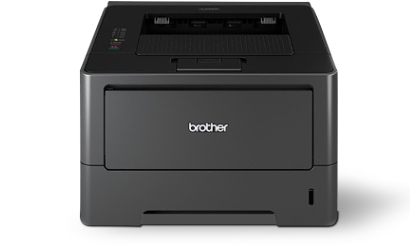
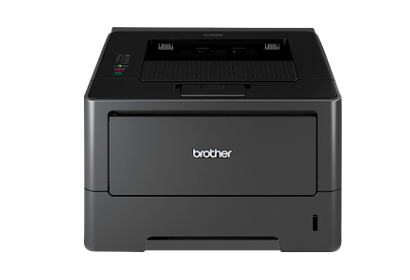
fc# catalog images

Changed region(s): [[0.1756, 0.0, 0.9659, 0.9597], [0.439, 0.4798, 0.5854, 0.5645], [0.7317, 0.7621, 0.7902, 0.8468]]

diff --git a/dist/index.html b/dist/index.html
@@ -211,7 +211,7 @@
                 <!-- line 4-->
                 <div class="programs-tab">
                   <div class="programs-tab__products">
-                    <div class="programs-tab__header">Линейка черно-белых лазерных устройств для малых рабочих групп</div>
+                    <div class="programs-tab__header">или</div>
                     <div class="programs-tab__products-grid">
                       <div class="programs-tab__product-item">
                         <div class="programs-tab__image"><img src="img/t1/b5.png" alt="">
@@ -237,7 +237,7 @@
                     </div>
                   </div>
                   <div class="programs-tab__complementary">
-                    <div class="programs-tab__header" data-quantitative-modification><span>Контракт 24 месяца</span></div>
+                    <div class="programs-tab__header" data-quantitative-modification><span>Контракт 36 месяца</span></div>
                     <div class="programs-tab__complementary-grid" data-symbol="+">
                       <div class="programs-tab__complementary-item">
                         <div class="programs-tab__image"><img src="img/t1/bk2.png" alt=""></div><span>9 картриджей</span>
@@ -302,12 +302,12 @@
                 <div class="catalog__column">
                   <div class="catalog__item">
                     <div class="catalog__item-label">
-                      <div class="catalog__item-image"><img src="img/c1.png" alt="title"></div>
-                      <h4 class="catalog__item-title">HL-L5200DW</h4>
+                      <div class="catalog__item-image"><img src="img/c3.png" alt="title"></div>
+                      <h4 class="catalog__item-title">HL-L6300DW</h4>
                     </div>
                     <div class="catalog__item-content js-catalog-item-content">
                       <article>
-                        <h4 class="catalog__item-title">HL-L5200DW</h4>
+                        <h4 class="catalog__item-title">HL-L6300DW</h4>
                         <dl>
                           <dt>Скорость печати, стр./мин.</dt>
                           <dd>46</dd>
@@ -343,12 +343,12 @@
                 <div class="catalog__column">
                   <div class="catalog__item">
                     <div class="catalog__item-label">
-                      <div class="catalog__item-image"><img src="img/c1.png" alt="title"></div>
-                      <h4 class="catalog__item-title">HL-L5200DW</h4>
+                      <div class="catalog__item-image"><img src="img/c3.png" alt="title"></div>
+                      <h4 class="catalog__item-title">HL-L6400DW</h4>
                     </div>
                     <div class="catalog__item-content js-catalog-item-content">
                       <article>
-                        <h4 class="catalog__item-title">HL-L5200DW</h4>
+                        <h4 class="catalog__item-title">HL-L6400DW</h4>
                         <dl>
                           <dt>Скорость печати, стр./мин.</dt>
                           <dd>46</dd>
@@ -384,12 +384,12 @@
                 <div class="catalog__column">
                   <div class="catalog__item">
                     <div class="catalog__item-label">
-                      <div class="catalog__item-image"><img src="img/c1.png" alt="title"></div>
-                      <h4 class="catalog__item-title">HL-L5200DW</h4>
+                      <div class="catalog__item-image"><img src="img/c4.png" alt="title"></div>
+                      <h4 class="catalog__item-title">MFC-L5750DW</h4>
                     </div>
                     <div class="catalog__item-content js-catalog-item-content">
                       <article>
-                        <h4 class="catalog__item-title">HL-L5200DW</h4>
+                        <h4 class="catalog__item-title">MFC-L5750DW</h4>
                         <dl>
                           <dt>Скорость печати, стр./мин.</dt>
                           <dd>46</dd>
@@ -425,12 +425,12 @@
                 <div class="catalog__column">
                   <div class="catalog__item">
                     <div class="catalog__item-label">
-                      <div class="catalog__item-image"><img src="img/c1.png" alt="title"></div>
-                      <h4 class="catalog__item-title">HL-L5200DW</h4>
+                      <div class="catalog__item-image"><img src="img/c5.png" alt="title"></div>
+                      <h4 class="catalog__item-title">MFC-L6800DW</h4>
                     </div>
                     <div class="catalog__item-content js-catalog-item-content">
                       <article>
-                        <h4 class="catalog__item-title">HL-L5200DW</h4>
+                        <h4 class="catalog__item-title">MFC-L6800DW</h4>
                         <dl>
                           <dt>Скорость печати, стр./мин.</dt>
                           <dd>46</dd>
@@ -466,12 +466,12 @@
                 <div class="catalog__column">
                   <div class="catalog__item">
                     <div class="catalog__item-label">
-                      <div class="catalog__item-image"><img src="img/c1.png" alt="title"></div>
-                      <h4 class="catalog__item-title">HL-L5200DW</h4>
+                      <div class="catalog__item-image"><img src="img/c6.png" alt="title"></div>
+                      <h4 class="catalog__item-title">MFC-L6900DW</h4>
                     </div>
                     <div class="catalog__item-content js-catalog-item-content">
                       <article>
-                        <h4 class="catalog__item-title">HL-L5200DW</h4>
+                        <h4 class="catalog__item-title">MFC-L6900DW</h4>
                         <dl>
                           <dt>Скорость печати, стр./мин.</dt>
                           <dd>46</dd>
@@ -513,12 +513,12 @@
                 <div class="catalog__column">
                   <div class="catalog__item">
                     <div class="catalog__item-label">
-                      <div class="catalog__item-image"><img src="img/c1.png" alt="title"></div>
-                      <h4 class="catalog__item-title">HL-L5200DW</h4>
+                      <div class="catalog__item-image"><img src="img/c7.png" alt="title"></div>
+                      <h4 class="catalog__item-title">HL-L2371DN</h4>
                     </div>
                     <div class="catalog__item-content js-catalog-item-content">
                       <article>
-                        <h4 class="catalog__item-title">HL-L5200DW</h4>
+                        <h4 class="catalog__item-title">HL-L2371DN</h4>
                         <dl>
                           <dt>Скорость печати, стр./мин.</dt>
                           <dd>46</dd>
@@ -554,12 +554,12 @@
                 <div class="catalog__column">
                   <div class="catalog__item">
                     <div class="catalog__item-label">
-                      <div class="catalog__item-image"><img src="img/c1.png" alt="title"></div>
-                      <h4 class="catalog__item-title">HL-L5200DW</h4>
+                      <div class="catalog__item-image"><img src="img/c8.png" alt="title"></div>
+                      <h4 class="catalog__item-title">DCP-L2551DN</h4>
                     </div>
                     <div class="catalog__item-content js-catalog-item-content">
                       <article>
-                        <h4 class="catalog__item-title">HL-L5200DW</h4>
+                        <h4 class="catalog__item-title">DCP-L2551DN</h4>
                         <dl>
                           <dt>Скорость печати, стр./мин.</dt>
                           <dd>46</dd>
@@ -595,12 +595,12 @@
                 <div class="catalog__column">
                   <div class="catalog__item">
                     <div class="catalog__item-label">
-                      <div class="catalog__item-image"><img src="img/c1.png" alt="title"></div>
-                      <h4 class="catalog__item-title">HL-L5200DW</h4>
+                      <div class="catalog__item-image"><img src="img/c8.png" alt="title"></div>
+                      <h4 class="catalog__item-title">MFC-L2751DW</h4>
                     </div>
                     <div class="catalog__item-content js-catalog-item-content">
                       <article>
-                        <h4 class="catalog__item-title">HL-L5200DW</h4>
+                        <h4 class="catalog__item-title">MFC-L2751DW</h4>
                         <dl>
                           <dt>Скорость печати, стр./мин.</dt>
                           <dd>46</dd>
@@ -642,12 +642,12 @@
                 <div class="catalog__column">
                   <div class="catalog__item">
                     <div class="catalog__item-label">
-                      <div class="catalog__item-image"><img src="img/c1.png" alt="title"></div>
-                      <h4 class="catalog__item-title">HL-L5200DW</h4>
+                      <div class="catalog__item-image"><img src="img/c10.png" alt="title"></div>
+                      <h4 class="catalog__item-title">HL-L9310CDW</h4>
                     </div>
                     <div class="catalog__item-content js-catalog-item-content">
                       <article>
-                        <h4 class="catalog__item-title">HL-L5200DW</h4>
+                        <h4 class="catalog__item-title">HL-L9310CDW</h4>
                         <dl>
                           <dt>Скорость печати, стр./мин.</dt>
                           <dd>46</dd>
@@ -683,12 +683,12 @@
                 <div class="catalog__column">
                   <div class="catalog__item">
                     <div class="catalog__item-label">
-                      <div class="catalog__item-image"><img src="img/c1.png" alt="title"></div>
-                      <h4 class="catalog__item-title">HL-L5200DW</h4>
+                      <div class="catalog__item-image"><img src="img/c11.png" alt="title"></div>
+                      <h4 class="catalog__item-title">MFC-L9570CDW</h4>
                     </div>
                     <div class="catalog__item-content js-catalog-item-content">
                       <article>
-                        <h4 class="catalog__item-title">HL-L5200DW</h4>
+                        <h4 class="catalog__item-title">MFC-L9570CDW</h4>
                         <dl>
                           <dt>Скорость печати, стр./мин.</dt>
                           <dd>46</dd>
